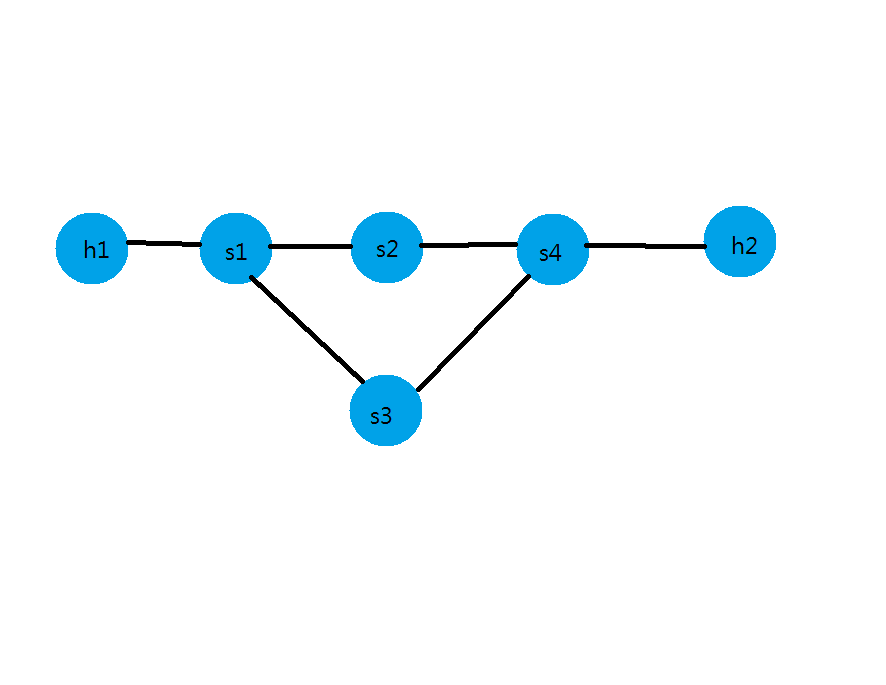
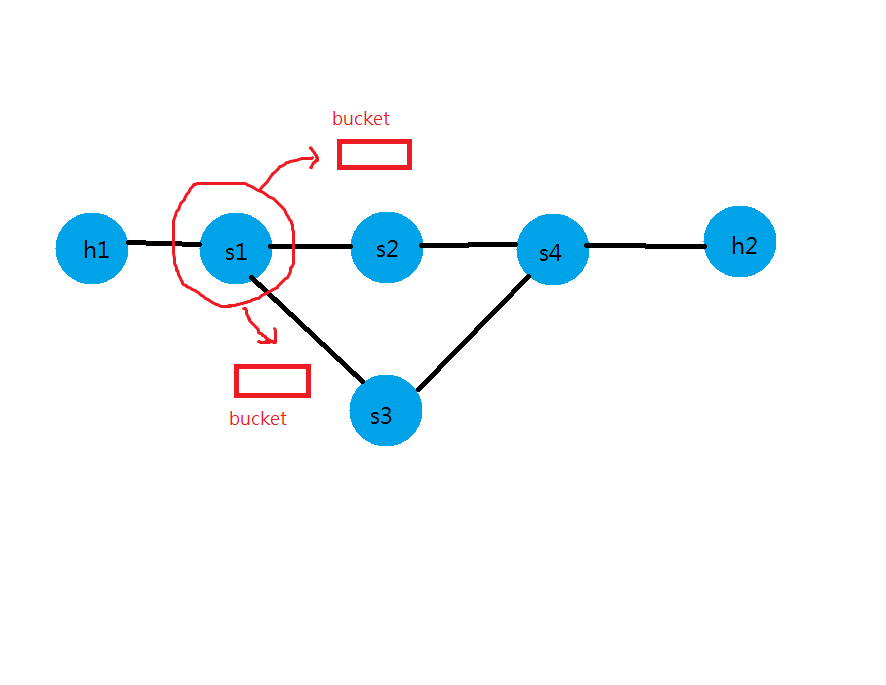
0604

diff --git a/0523/README.md b/0523/README.md
@@ -308,6 +308,8 @@ mininet> link s1 s2 up  ##模擬連線恢復
 ```
 ### [範例六-group-select](http://csie.nqu.edu.tw/smallko/sdn/group-select.htm)
 
+![](W15-5.png)
+
 * rule2.sh
 ```
 
